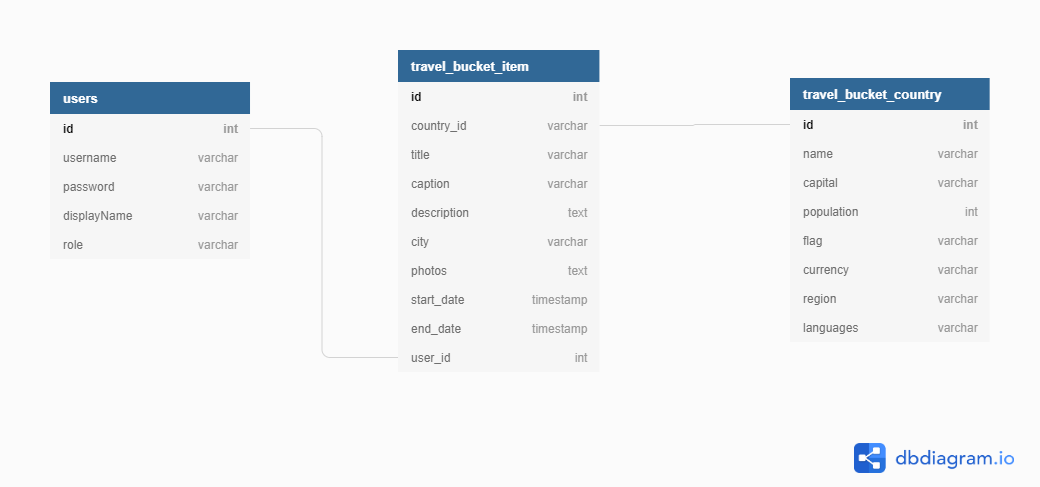
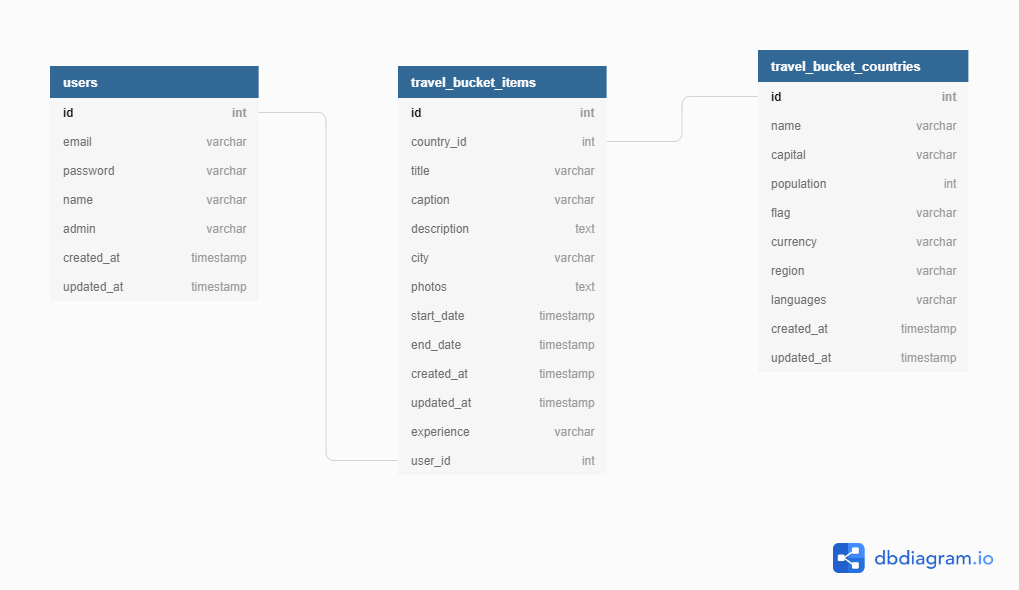
Update readme

diff --git a/readme.md b/readme.md
@@ -40,9 +40,9 @@ https://devmarketer.io/learn/setup-laravel-project-cloned-github-com/
 ## Database model
 ### mySQL Model
 ````
-CREATE TABLE `travel_bucket_item` (
+CREATE TABLE `travel_bucket_items` (
   `id` int PRIMARY KEY AUTO_INCREMENT,
-  `country_id` varchar(255),
+  `country_id` int,
   `title` varchar(255),
   `caption` varchar(255),
   `description` text,
@@ -50,10 +50,13 @@ CREATE TABLE `travel_bucket_item` (
   `photos` text,
   `start_date` timestamp,
   `end_date` timestamp,
+  `created_at` timestamp,
+  `updated_at` timestamp,
+  `experience` varchar(255),
   `user_id` int
 );
 
-CREATE TABLE `travel_bucket_country` (
+CREATE TABLE `travel_bucket_countries` (
   `id` int PRIMARY KEY AUTO_INCREMENT,
   `name` varchar(255),
   `capital` varchar(255),
@@ -61,20 +64,24 @@ CREATE TABLE `travel_bucket_country` (
   `flag` varchar(255),
   `currency` varchar(255),
   `region` varchar(255),
-  `languages` varchar(255)
+  `languages` varchar(255),
+  `created_at` timestamp,
+  `updated_at` timestamp
 );
 
 CREATE TABLE `users` (
   `id` int PRIMARY KEY AUTO_INCREMENT,
-  `username` varchar(255),
+  `email` varchar(255),
   `password` varchar(255),
-  `displayName` varchar(255),
-  `role` varchar(255)
+  `name` varchar(255),
+  `admin` varchar(255),
+  `created_at` timestamp,
+  `updated_at` timestamp
 );
 
-ALTER TABLE `travel_bucket_item` ADD FOREIGN KEY (`country_id`) REFERENCES `travel_bucket_country` (`id`);
+ALTER TABLE `travel_bucket_items` ADD FOREIGN KEY (`country_id`) REFERENCES `travel_bucket_countries` (`id`);
 
-ALTER TABLE `travel_bucket_item` ADD FOREIGN KEY (`user_id`) REFERENCES `users` (`id`);
+ALTER TABLE `travel_bucket_items` ADD FOREIGN KEY (`user_id`) REFERENCES `users` (`id`);
 
 
 ````
